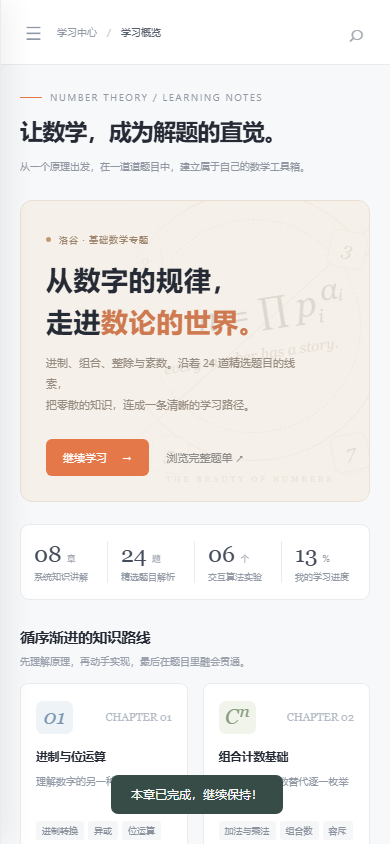
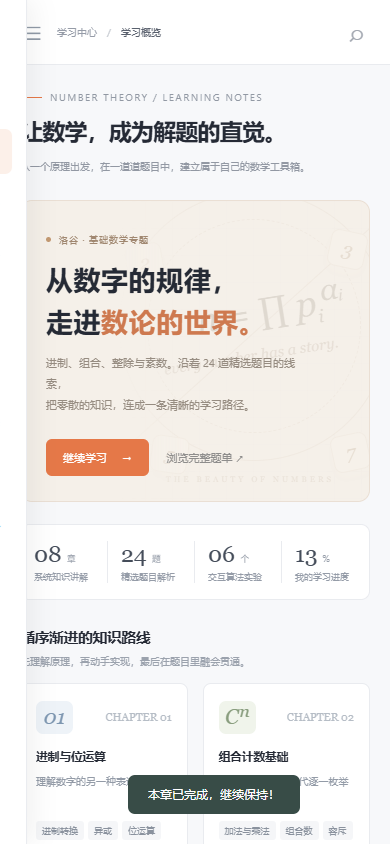
update

diff --git a/verify-browser.js b/verify-browser.js
@@ -1,5 +1,7 @@
 const fs=require('node:fs');
 const assert=require('node:assert/strict');
+const path=require('node:path');
+const {pathToFileURL}=require('node:url');
 async function run(){
  const tab=await fetch('http://127.0.0.1:9222/json/new?http://127.0.0.1:4173',{method:'PUT'}).then(r=>r.json());
  const ws=new WebSocket(tab.webSocketDebuggerUrl);await new Promise(r=>ws.addEventListener('open',r));let seq=0;const pending=new Map(),errors=[];
@@ -41,7 +43,7 @@ async function run(){
  await view('#lesson/modular');assert.equal(await evaluate('document.documentElement.scrollWidth <= innerWidth'),true);
  await view('#problems');assert.equal(await evaluate('document.documentElement.scrollWidth <= innerWidth'),true);
  await evaluate('state={completed:[],saved:[],solved:[],last:"base"};persist()');
- await send('Page.navigate',{url:'file:///C:/Mick%C2%B7Jie%C2%B7Liu/DAS/index.html'});await new Promise(r=>setTimeout(r,400));assert.equal(await evaluate('document.querySelectorAll(".chapter-card").length'),8);
+ await send('Page.navigate',{url:pathToFileURL(path.join(__dirname,'index.html')).href});await new Promise(r=>setTimeout(r,400));assert.equal(await evaluate('document.querySelectorAll(".chapter-card").length'),8);
  assert.deepEqual(errors,[]);
  console.log('PASS: 8 lessons, 24 problems, search, filters, bookmarks, solved status, completion, quiz, 6 interactive demos, invalid/edge inputs, 390px responsive layouts, offline file opening, no runtime errors.');
  await send('Page.close');ws.close();

diff --git a/verify-math.js b/verify-math.js
@@ -35,6 +35,9 @@ int main() {
   }
   for(int n=1;n<=1000;++n) {long long expected=0;for(int i=1;i<=n;++i)expected+=n/i;assert(divisorCountSum(n)==expected);}
   assert(powerSum(9902,12346,9901).second==12346%9901);
+  assert(modpow(LLONG_MAX-1,1,LLONG_MAX)==LLONG_MAX-1);
+  assert(modpow(-1,3,LLONG_MAX)==LLONG_MAX-1);
+  assert(powerSum(LLONG_MAX-1,3,LLONG_MAX).second==1);
   cout<<"PASS: displayed C++17 templates compile; base conversion, GCD/LCM, factorization, fast powers, geometric sums and quotient grouping match independent small-case calculations.\\n";
 }`;
 fs.mkdirSync('.verification',{recursive:true});

diff --git a/README.md b/README.md
@@ -2,11 +2,21 @@
 
 基于洛谷题单 [117「【数学1】基础数学问题」](https://www.luogu.com.cn/training/117) 的中文静态学习网站。题单和 24 道原题题面于 2026-09-20 核对，讲解为独立编写，并非洛谷官方题解转载。
 
-## 打开
+适合已掌握 C++ 基本语法、循环、数组和函数，准备系统练习数学题的学习者。用 **8 个知识章节、24 道题目讲解、6 个算法实验**，串起进制、组合计数与基础数论。
+
+![桌面端学习概览](preview-desktop.png)
+
+## 快速开始
 
 直接用浏览器打开 `index.html` 即可。所有样式、字体替代方案、脚本和内容均不依赖 CDN，可离线阅读。跳转原题需要网络。
 
-也可运行 `node server.js`，访问 http://127.0.0.1:4173 。
+安装 Node.js 后，也可在项目根目录运行：
+
+```sh
+node server.js
+```
+
+访问 [http://127.0.0.1:4173](http://127.0.0.1:4173)，按 `Ctrl+C` 停止服务。服务仅监听本机，端口固定为 4173。项目没有 npm 依赖，不需要运行 `npm install`。浏览器需要启用 JavaScript，并支持 BigInt 和原生 dialog；建议使用近期版本的 Chrome、Edge、Firefox 或 Safari。
 
 ## 内容
 
@@ -18,6 +28,32 @@
 
 学习记录保存在浏览器的 localStorage 中。文件方式和 HTTP 方式打开时的存储空间可能不同；隐私模式或禁用存储时退化为本次会话记录。题目完成状态由学习者手工记录，不与洛谷账户联动。
 
+按 `/` 可打开搜索，支持题号、标题和知识点关键词，按 `Esc` 关闭弹窗。章节末尾可以标记完成或打印为 PDF。学习记录可导出 JSON，目前没有导入功能；导出文件用于留存和查阅。换浏览器、换端口或清除浏览器数据可能看不到原来的记录；存储不可用时，刷新或关闭页面后记录可能丢失。
+
+## 学习路线与题目索引
+
+建议先理解原理，在实验室观察小例子，再独立实现并到洛谷提交，最后回看易错点。章节预计用时只包含阅读与理解，刷题可另行安排。
+
+| 章节 | 核心内容 | 关联题号 |
+| --- | --- | --- |
+| 01 进制与位运算 | 位权、正负进制、异或、移位 | P1143、P1469、P1100、P1017 |
+| 02 组合计数基础 | 乘法原理、杨辉三角、容斥、隔板法、排名、可达性 DP | P1866、P2822、P2789、P3913、P2638、P1246 |
+| 03 整除、GCD 与 LCM | 辗转相除、互质关系、分数运算、消因子 | P1029、P1072、P1572、P4057、P2651、P2660 |
+| 04 素数与筛法 | 埃氏筛、线性筛、区间筛 | P3383、P1835 |
+| 05 质因数分解与约数 | 唯一分解、约数计数、指数约束、因子和 | P1069、P1593 |
+| 06 同余与快速幂 | 模运算、快速幂、分治等比和 | P1593、P1866、P2822 |
+| 07 约数统计与贡献法 | 倍数枚举、后缀最大值、整除分块 | P2926、P1414、P1403 |
+| 08 欧拉函数与区间数论 | 容斥、欧拉函数、区间分解 | P3601 |
+
+部分题目关联多个章节，去重后共 24 道。入门可从 P1143 → P1469 → P3383 → P1029 开始。组合计数中的 DP、二维前缀和，以及区间欧拉函数可以在掌握基础后回看。
+
+<details>
+<summary>查看手机端预览</summary>
+
+![手机端学习概览](preview-mobile.png)
+
+</details>
+
 ## 文件
 
 - `index.html`：页面框架。
@@ -27,11 +63,53 @@
 - `source-problems.json`：读取原题时的题面数据快照，供核对；不在页面加载。
 - `fetch-source.ps1`：更新题面快照的可选脚本，需网络访问。
 - `server.js`：可选的 Node.js 本地预览服务，无 npm 依赖。
+- `verify-math.js`：提取并编译部分页面模板，核对小规模计算结果。
+- `verify-browser.js`：浏览器交互、手机布局与离线打开检查，生成预览截图。
+- `preview-desktop.png` / `preview-mobile.png`：README 使用的页面截图。
+
+`.verification/` 保存编译验证产物，`.browser-test/` 用于专用测试浏览器配置；两者均被 Git 忽略。
 
 网站不自动提交题解、不访问个人洛谷数据、不调用外部统计服务。
 
-## 验证
+## 修改与验证
+
+使用 UTF-8 保存文本。在 Windows PowerShell 中读取中文文件时，使用 `Get-Content -Encoding UTF8`。修改课程时，在 `content.js` 中同步检查章节关联题号、题目的主章节、自测答案和数据范围；页面部分总数为固定文案，增删章节或题目后也要同步更新 `app.js`、`index.html` 和本文。
+
+### 语法与数学模板
+
+在项目根目录执行：
+
+```sh
+node --check content.js
+node --check app.js
+node --check server.js
+node verify-math.js
+```
 
 `node verify-math.js` 会从页面内容中提取核心 C++17 模板，使用本机 `g++` 编译并与独立的小规模计算结果对照。
 
+`g++` 需要在 PATH 中，并支持 C++17 与 GNU 扩展 `__int128`。检查覆盖进制转换、GCD/LCM、质因数分解、快速幂、等比和及整除分块，不覆盖全部题目的完整解法，也不等同于洛谷评测通过。
+
+### 浏览器验证
+
 `node verify-browser.js` 使用 Chrome DevTools 协议检查页面，需要本地预览服务及监听 9222 端口的测试浏览器。它会重置测试浏览器内本站的学习记录，检查交互与移动布局，并生成桌面及手机截图；请仅对专用测试浏览器运行。
+
+需要 **Node.js 22 或更新版本**（使用内置 `fetch` 与 `WebSocket`）、Chrome 或 Edge，以及运行中的 `node server.js`。Windows PowerShell 示例，在项目根目录新开终端启动测试浏览器：
+
+```powershell
+& 'C:\Program Files\Google\Chrome\Application\chrome.exe' --headless=new --remote-debugging-port=9222 --user-data-dir="$PWD/.browser-test" about:blank
+```
+
+随后在另一个终端运行 `node verify-browser.js`。其他系统可使用对应浏览器路径和相同参数。测试覆盖 8 章、24 题、搜索、筛选、收藏、完成标记、自测、6 个实验、边界输入、390px 手机布局、当前项目的文件方式打开及运行时异常。测试会覆盖两张预览截图；结束后关闭专用浏览器。
+
+## 来源与维护
+
+题目名称、题面与样例来自洛谷，讲解为独立编写。题面、难度和限制可能更新，提交时以原题页面为准。
+
+需要重新获取快照时，在有网络访问的环境中运行：
+
+```powershell
+./fetch-source.ps1
+```
+
+脚本仅在 24 道题全部获取并通过基本内容检查后写入快照；任何一道失败都会保留现有文件。更新快照不会自动改写讲解、题目难度或核对日期，应人工比较差异后再同步修改。
